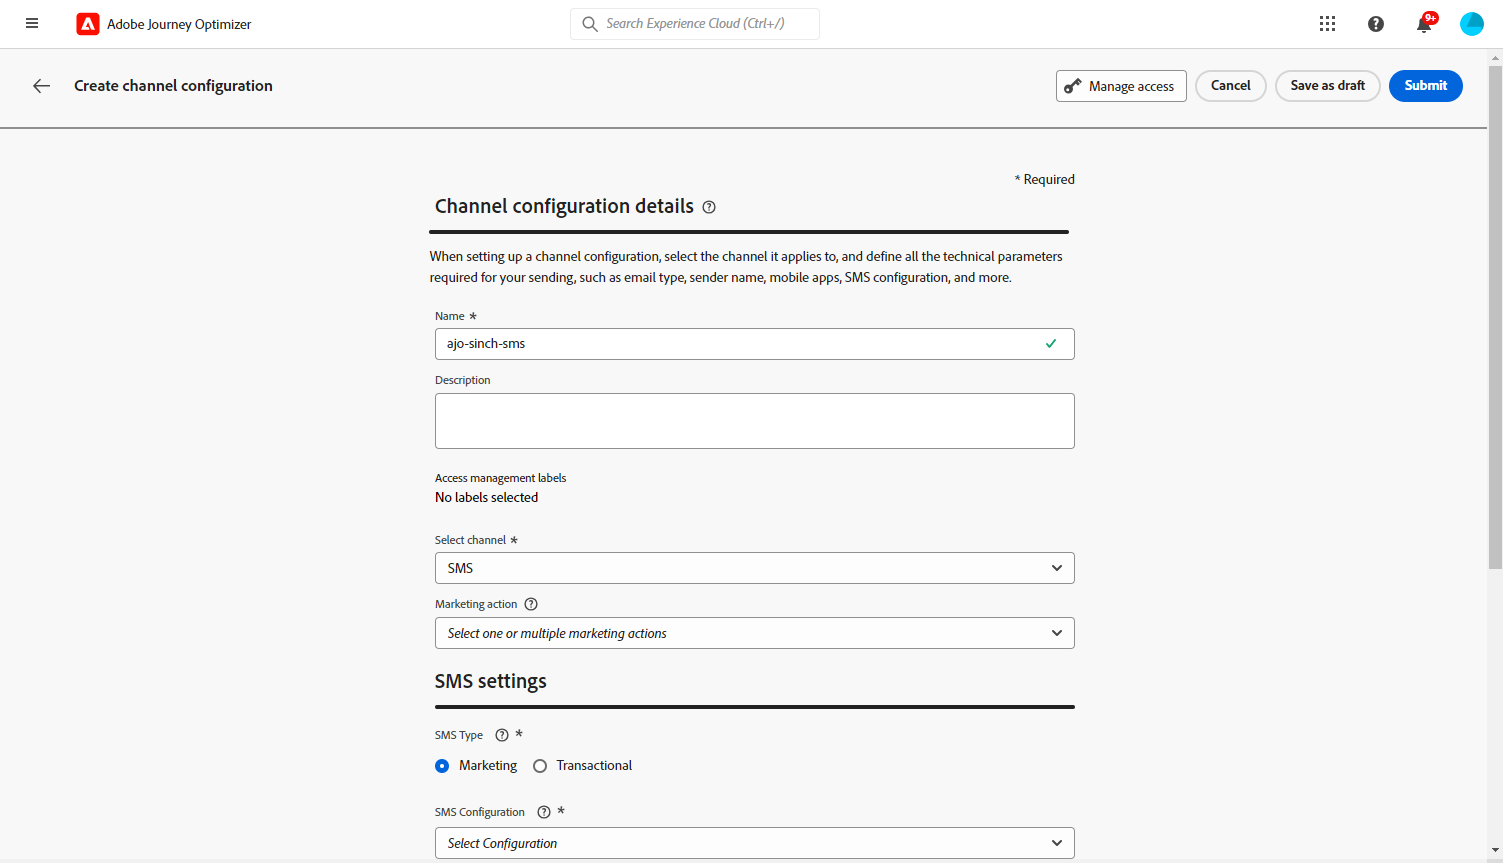
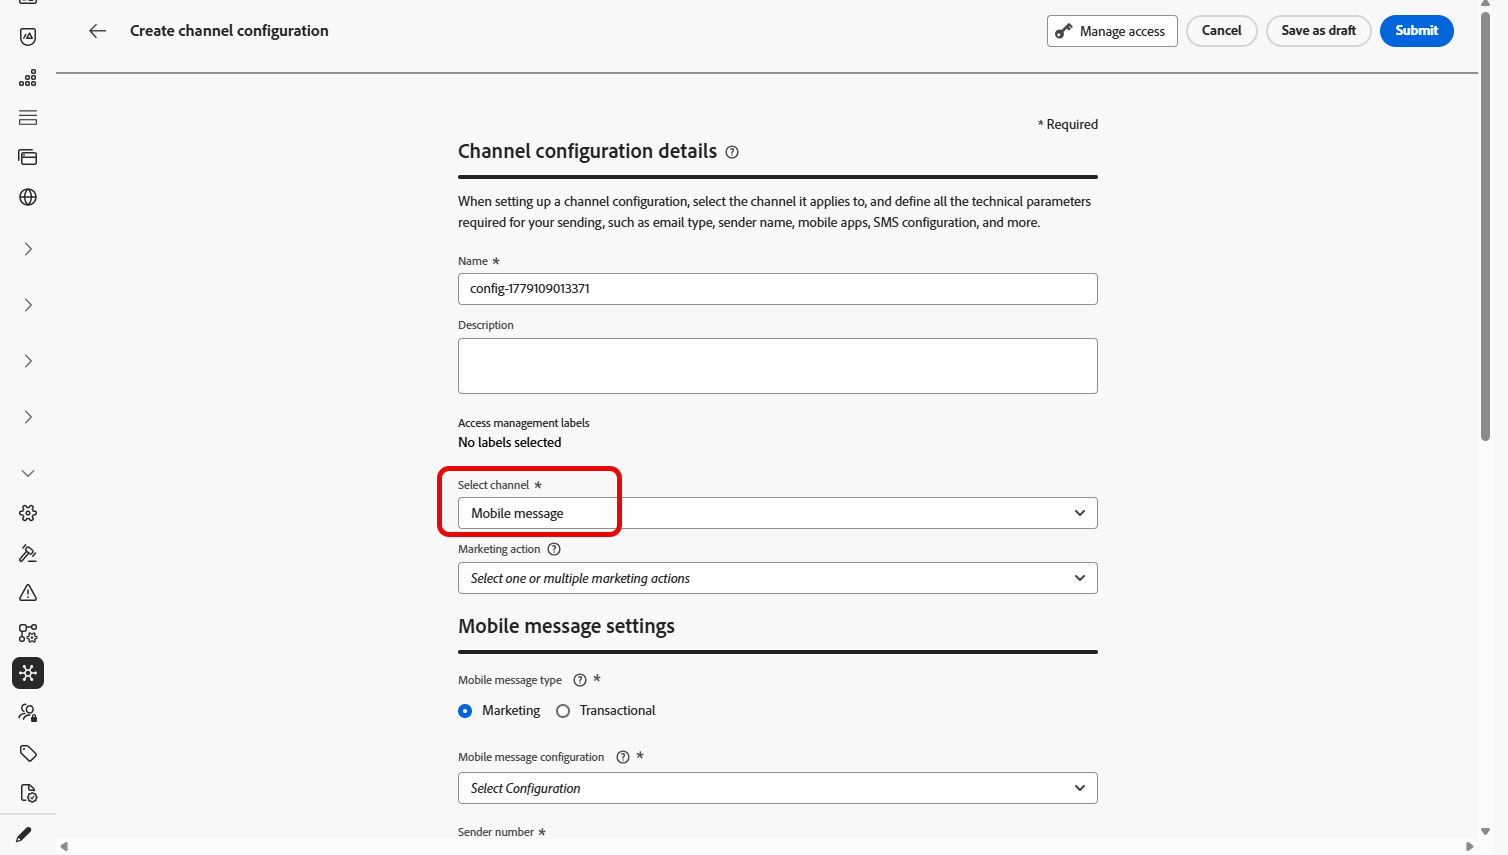
in progress

diff --git a/help/using/sms/get-started-sms.md b/help/using/sms/get-started-sms.md
@@ -97,46 +97,6 @@ The following prerequisites are required to use RCS in Journey Optimizer:
 * **Supported vendor**: Native RCS authoring requires Sinch RCS (Adobe resell or direct). Twilio, Infobip, and other providers must use a custom provider integration.
 * **Device support**: RCS delivery is supported on Android and iOS devices. Carrier and regional availability varies, RCS is not universally available globally.
 
-## Quick start guide {#quick-start}
-
-<table style="table-layout:fixed"><tr style="border: 0;">
-<td>
-<a href="sms-configuration.md">
-<img alt="Validation" src="../assets/do-not-localize/sms-config.jpg">
-</a>
-<div>
-<a href="sms-configuration.md"><strong>Configure SMS channel</strong></a>
-</div>
-<p>Set up your SMS provider and channel configurations</p>
-</td>
-<td>
-<a href="create-sms.md">
-<img alt="Lead" src="../assets/do-not-localize/sms-create.jpeg">
-</a>
-<div><a href="create-sms.md"><strong>Create a text message</strong></a>
-</div>
-<p>Design and personalize your SMS, MMS, or RCS content</p>
-</td>
-<td>
-<a href="send-sms.md">
-<img alt="Infrequent" src="../assets/do-not-localize/sms-sending.jpg">
-</a>
-<div>
-<a href="send-sms.md"><strong>Preview & send</strong></a>
-</div>
-<p>Test and send your text messages to your audience</p>
-</td>
-<td>
-<a href="sms-opt-out.md">
-<img alt="Validation" src="../assets/do-not-localize/sms-opt-out.jpg">
-</a>
-<div>
-<a href="sms-opt-out.md"><strong>Manage opt-outs</strong></a>
-</div>
-<p>Handle unsubscribe requests and ensure compliance</p>
-</td>
-</tr></table>
-
 ## Additional resources {#additional-resources}
 
 Browse the topics below to learn more about text messaging in Journey Optimizer.
@@ -232,10 +192,3 @@ Learn how to configure and send branded, interactive RCS messages in Adobe Journ
 >[!VIDEO](https://video.tv.adobe.com/v/3464755)
 
 +++
-
-**Related topics**
-
-* [Add messages in journeys](../building-journeys/journey-action.md)
-* [Create marketing campaigns](../campaigns/create-campaign.md)
-* [Guardrails and limitations](../start/guardrails.md#sms-guardrails)
-* [SMS and mobile messaging tutorials](https://experienceleague.adobe.com/en/docs/journey-optimizer-learn/tutorials/channels/sms-channel/sms-mms-messages-overview){target="_blank"}

diff --git a/help/using/sms/sms-configuration-surface.md b/help/using/sms/sms-configuration-surface.md
@@ -51,7 +51,7 @@ To create a channel configuration, follow these steps:
 
     ![](assets/preset-create.png)
 
-1. Enter a name and a description (optional) for the configuration, then select the SMS channel.
+1. Enter a name and a description (optional) for the configuration, then select the Mobile channel.
 
     ![](assets/sms-create-surface.png)
 
